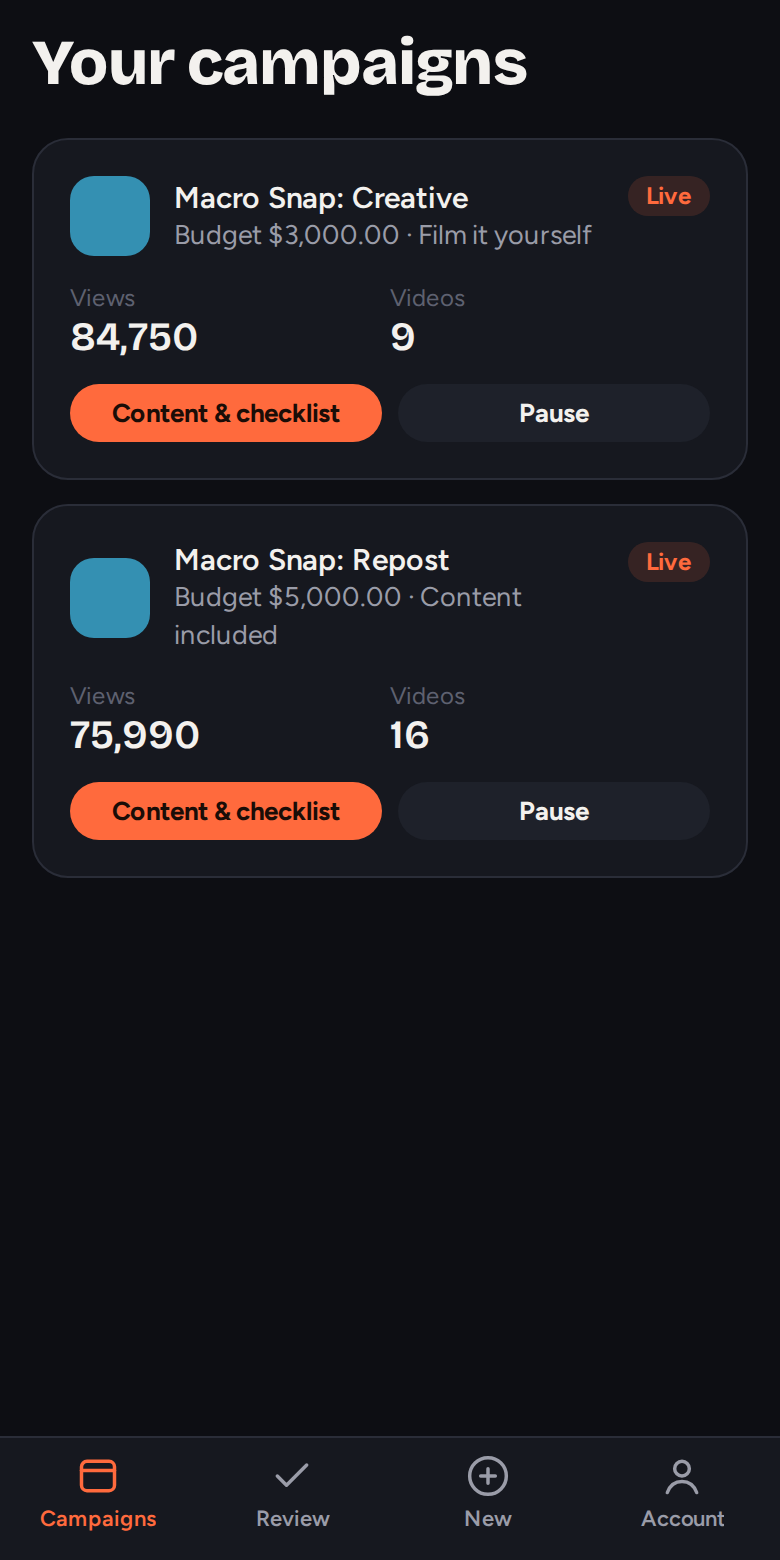
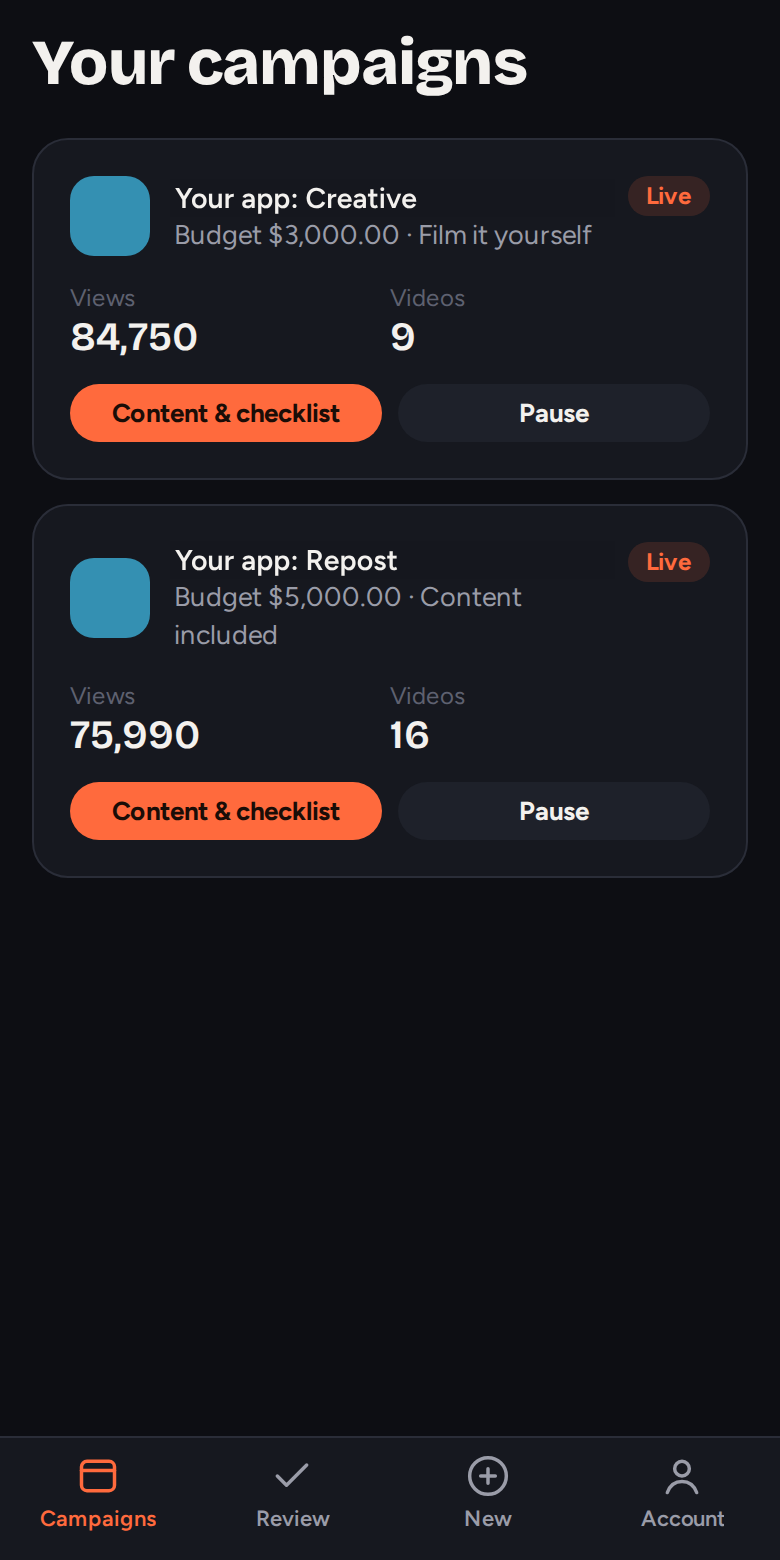
Replace the sample app name in the hero phone with 'Your app'
Claude-Session: https://claude.ai/code/session_01Uk6NG1gYvfXL5HbW9h3W6R

Changed region(s): [[0.2154, 0.1231, 0.6154, 0.1538], [0.2154, 0.3385, 0.5846, 0.3692]]

diff --git a/public/home.html b/public/home.html
@@ -310,7 +310,7 @@ nav.open .menubtn span::after{content:"";display:block;width:18px;height:2px;bac
       </div>
       <div class="proof"><img src="/landing/em-skinner.webp" alt="" width="44" height="44"><div><div class="st" aria-label="5 stars">★★★★★</div><b>“Hypiva took care of everything.”</b><small data-nl="Em Skinner, oprichter van TheCozyDev (slideshow-campagne)" data-fr="Em Skinner, fondatrice de TheCozyDev (campagne slideshow)">Em Skinner, founder of TheCozyDev (slideshow campaign)</small></div></div>
     </div>
-    <div class="glow fx-stage"><div class="fx-scene"><i class="fx-ghost g1" aria-hidden="true"></i><i class="fx-ghost g2" aria-hidden="true"></i><div class="phone"><i class="fx-edge" aria-hidden="true"></i><img src="/landing/brand-phone.png" alt="The Hypiva brand dashboard: live campaigns with views and videos" width="390" height="780"><i class="fx-glare" aria-hidden="true"></i></div><span class="fx-chip c1" aria-hidden="true" data-nl="📈 Views live" data-fr="📈 Vues en direct">📈 Live views</span><span class="fx-chip c2" aria-hidden="true" data-nl="✅ Door ons gecheckt" data-fr="✅ Vérifié par nous">✅ Checked by us</span><span class="fx-chip c3" aria-hidden="true" data-nl="🌍 Veel talen" data-fr="🌍 Plusieurs langues">🌍 Many languages</span></div></div>
+    <div class="glow fx-stage"><div class="fx-scene"><i class="fx-ghost g1" aria-hidden="true"></i><i class="fx-ghost g2" aria-hidden="true"></i><div class="phone"><i class="fx-edge" aria-hidden="true"></i><img src="/landing/brand-phone.png?v=2" alt="The Hypiva brand dashboard: live campaigns with views and videos" width="390" height="780"><i class="fx-glare" aria-hidden="true"></i></div><span class="fx-chip c1" aria-hidden="true" data-nl="📈 Views live" data-fr="📈 Vues en direct">📈 Live views</span><span class="fx-chip c2" aria-hidden="true" data-nl="✅ Door ons gecheckt" data-fr="✅ Vérifié par nous">✅ Checked by us</span><span class="fx-chip c3" aria-hidden="true" data-nl="🌍 Veel talen" data-fr="🌍 Plusieurs langues">🌍 Many languages</span></div></div>
   </div>
 
   <div class="wrap">
